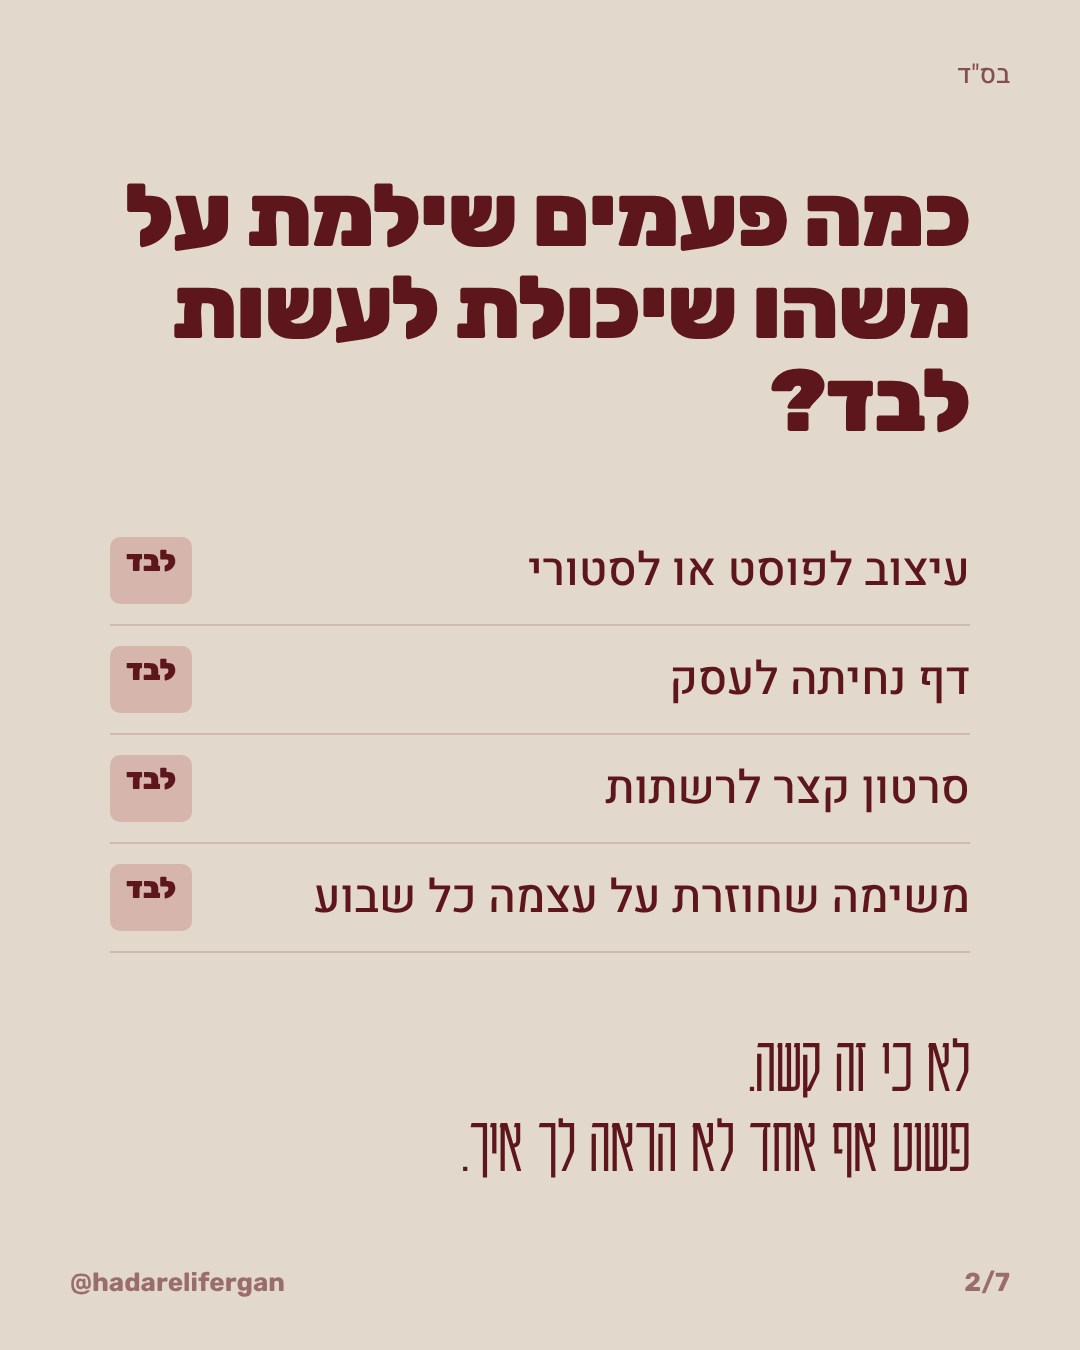
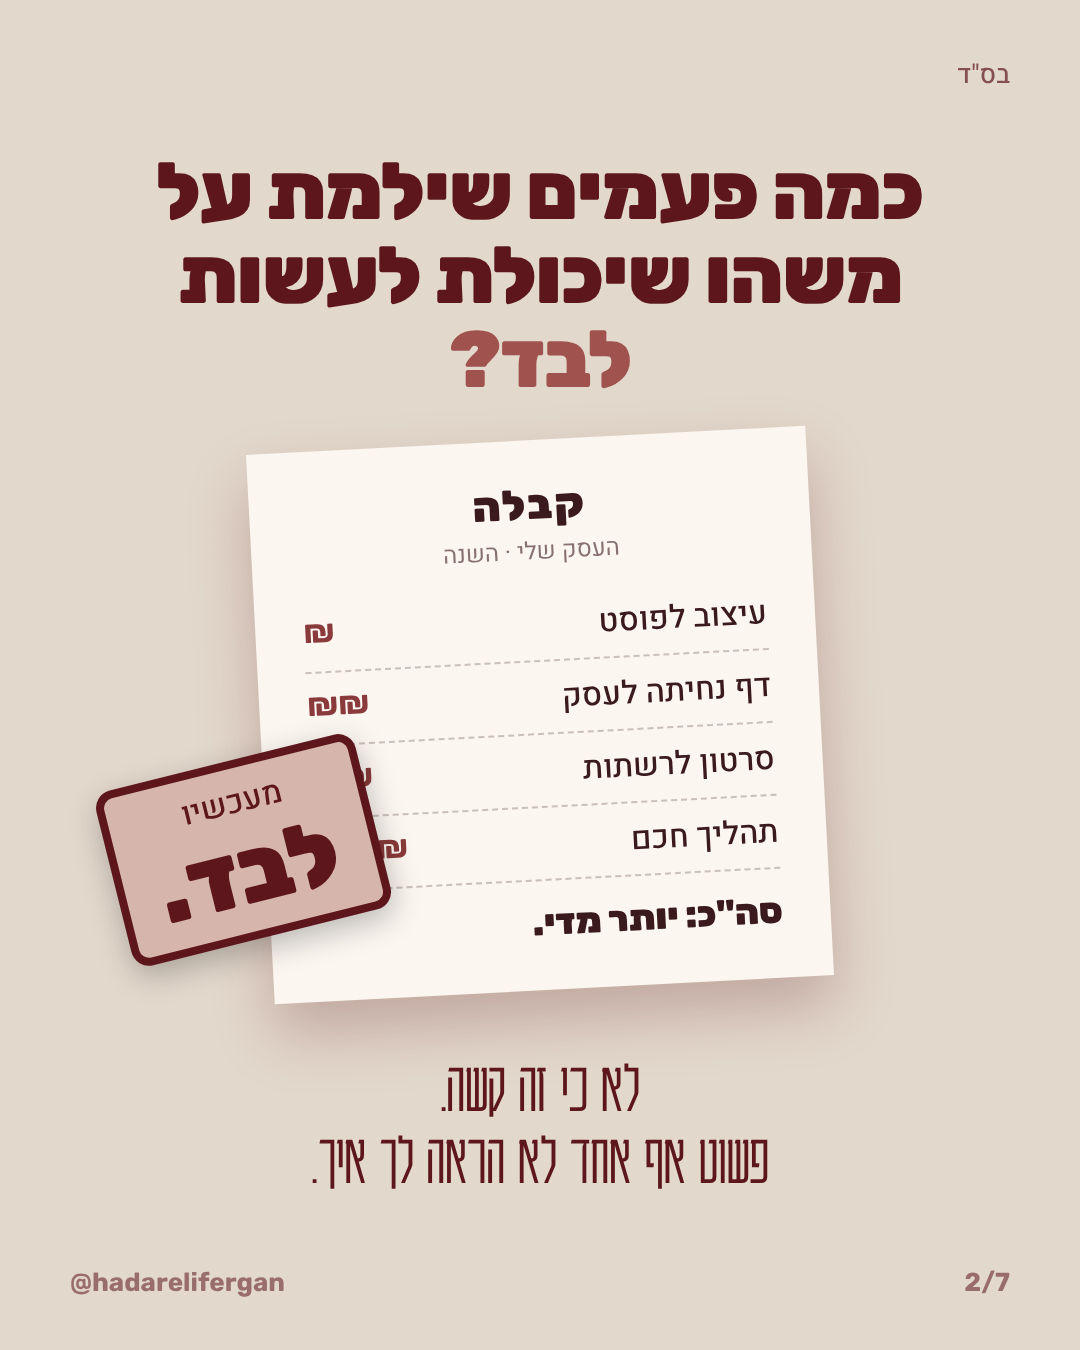
AI course carousel: receipt-and-stamp on slide 2
Claude-Session: https://claude.ai/code/session_01FAztRogrk4u7GmN3YWcRGe

diff --git a/carousels/ai-course/slides.html b/carousels/ai-course/slides.html
@@ -17,6 +17,14 @@
 .card .l:last-child{border:none}
 .card .k{font:500 32px Heebo;opacity:.7}.card .v{font:900 40px Rubik}
 .btn{display:inline-block;white-space:nowrap;background:var(--cream);color:var(--wine);font:900 38px Rubik;border-radius:60px;padding:24px 44px}
+.receipt{position:absolute;background:#fbf6f0;color:#3a1a1c;width:560px;padding:40px 48px 46px;transform:rotate(-3deg);box-shadow:0 30px 60px rgba(92,22,28,.25)}
+.receipt h4{font:900 42px Rubik;text-align:center;letter-spacing:2px}
+.receipt .sub{font:400 24px Heebo;text-align:center;opacity:.6;margin:4px 0 20px}
+.line{display:flex;justify-content:space-between;font:500 32px Heebo;padding:12px 0;border-bottom:2px dashed rgba(58,26,28,.25)}
+.line b{font:700 32px Rubik;color:#8a3a3a}
+.total{font:900 36px Rubik;padding-top:20px}
+.stamp{position:absolute;border:8px solid var(--wine);color:var(--wine);background:var(--rose);border-radius:18px;padding:10px 34px;font:900 92px Rubik;transform:rotate(-14deg);text-align:center;line-height:1.05;box-shadow:0 10px 30px rgba(0,0,0,.25)}
+.stamp small{display:block;font:500 32px Heebo}
 </style></head><body>
 
 <!-- 1 -->
@@ -37,16 +45,17 @@
 <!-- 2 -->
 <section class="slide light">
   <div class="bsd">בס"ד</div>
-  <div class="abs" style="top:170px;left:110px;right:110px">
-    <div class="R" style="font-size:88px">כמה פעמים שילמת על משהו שיכולת לעשות לבד?</div>
-    <div style="margin-top:70px">
-      <div class="strike">עיצוב לפוסט או לסטורי<i>לבד</i></div>
-      <div class="strike">דף נחיתה לעסק<i>לבד</i></div>
-      <div class="strike">סרטון קצר לרשתות<i>לבד</i></div>
-      <div class="strike">משימה שחוזרת על עצמה כל שבוע<i>לבד</i></div>
-    </div>
-    <div class="K" style="font-size:80px;margin-top:70px">לא כי זה קשה.<br>פשוט אף אחד לא הראה לך איך.</div>
+  <div class="abs R" style="top:150px;left:100px;right:100px;text-align:center;font-size:80px">כמה פעמים שילמת על משהו שיכולת לעשות <span style="color:#a0524f">לבד?</span></div>
+  <div class="receipt" style="left:260px;top:440px">
+    <h4>קבלה</h4><div class="sub">העסק שלי · השנה</div>
+    <div class="line"><span>עיצוב לפוסט</span><b>₪</b></div>
+    <div class="line"><span>דף נחיתה לעסק</span><b>₪₪</b></div>
+    <div class="line"><span>סרטון לרשתות</span><b>₪₪</b></div>
+    <div class="line"><span>תהליך חכם</span><b>₪₪₪</b></div>
+    <div class="total">סה"כ: יותר מדי.</div>
   </div>
+  <div class="stamp" style="left:110px;top:760px;z-index:4"><small>מעכשיו</small>לבד.</div>
+  <div class="abs K" style="top:1050px;left:100px;right:100px;text-align:center;font-size:72px">לא כי זה קשה.<br>פשוט אף אחד לא הראה לך איך.</div>
   <div class="foot"><span>@hadarelifergan</span><span>2/7</span></div>
 </section>
 
